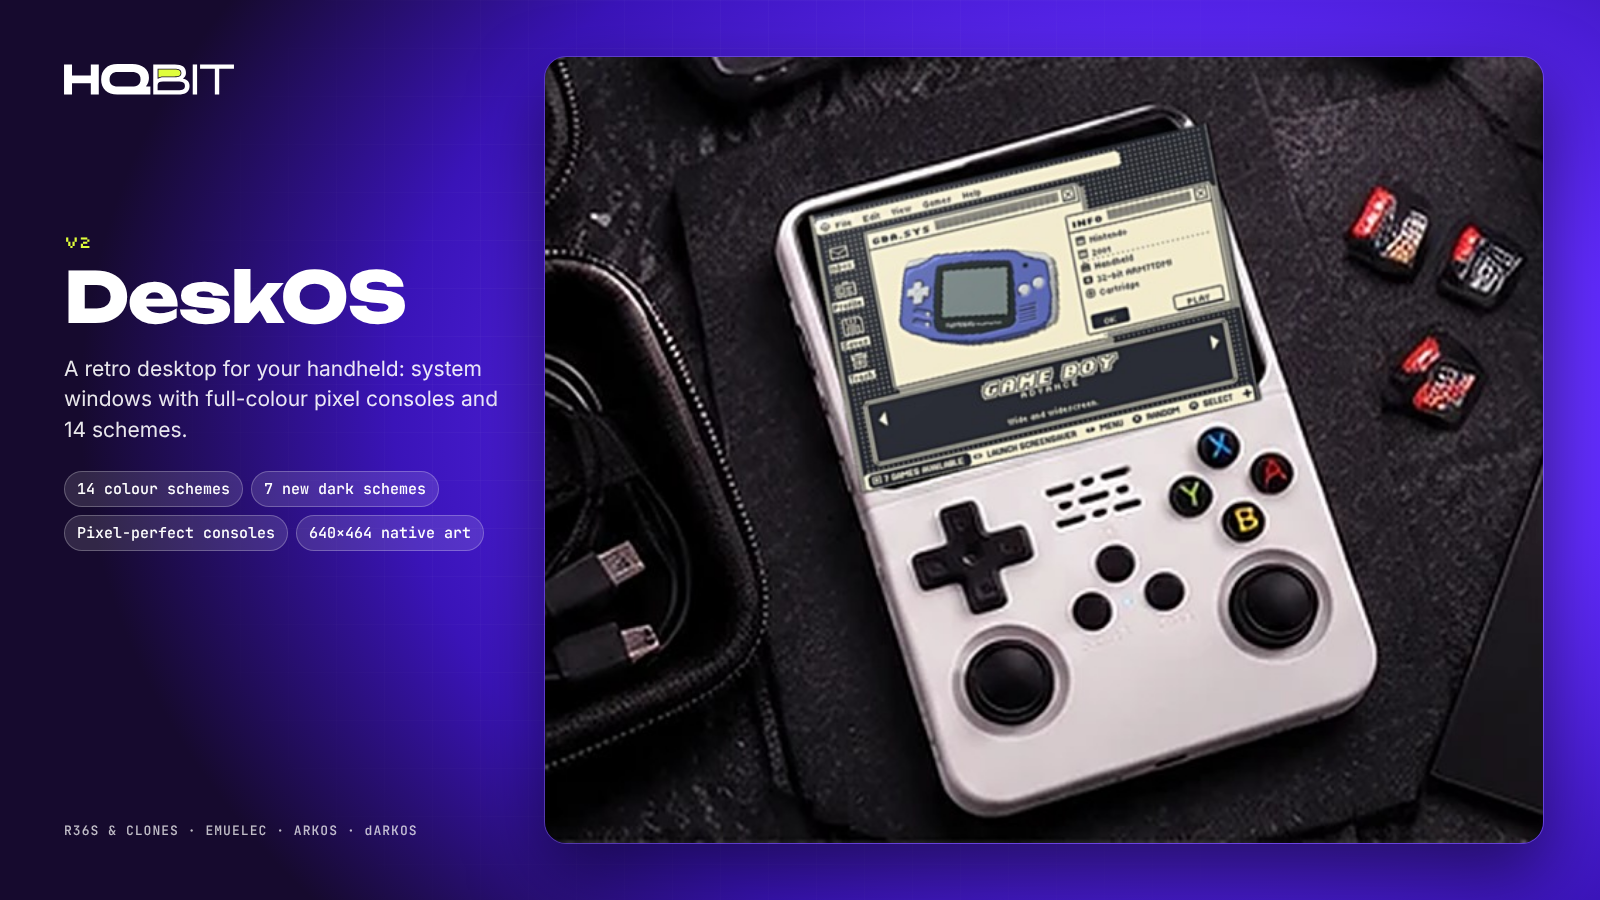
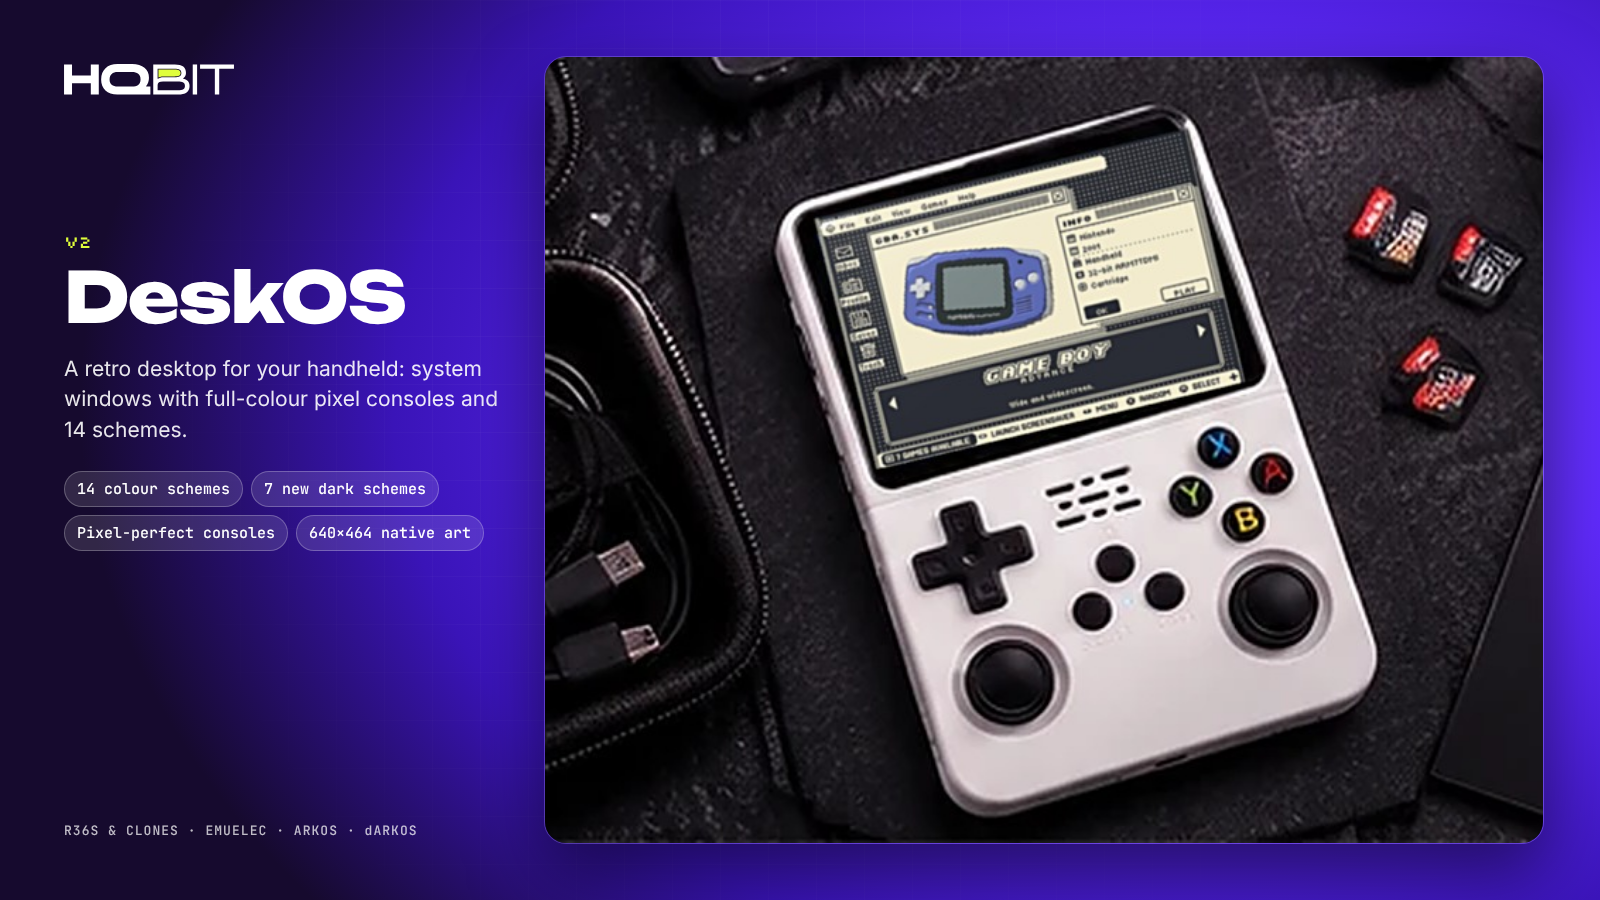
Fix screen placement on showcase photos; add boot-loop recovery steps
Screen corners re-measured from 8x zooms so each screenshot sits inside the
lit display area instead of over the bezel.

Claude-Session: https://claude.ai/code/session_012YBeFWiQAfsThBpmGfRTHW

Changed region(s): [[0.5, 0.1244, 0.8125, 0.56]]

diff --git a/hqbit-brand/website/hqbit.html b/hqbit-brand/website/hqbit.html
@@ -106,6 +106,15 @@ section { padding-block: clamp(56px, 8vw, 100px); }
 .compat ul { list-style: none; margin: 0; padding: 0; display: flex; flex-wrap: wrap; gap: 8px; }
 .compat li { font: 500 13px/1 var(--mono); color: #fff; background: rgba(255,255,255,.16); border: 1px solid rgba(255,255,255,.35); padding: 9px 12px; border-radius: 999px; }
 
+/* boot-loop fix */
+.fix { margin-top: 18px; display: grid; grid-template-columns: auto 1fr; gap: 14px 22px; align-items: start; background: var(--plum); border: 1px solid rgba(224, 254, 59, .45); border-radius: var(--r); padding: 22px 24px; }
+.fix-tag { font: 400 13px/1 var(--pixel); color: #1a0b3d; background: var(--lime); padding: 8px 10px; border-radius: 8px; white-space: nowrap; }
+.fix > div { display: flex; flex-direction: column; gap: 10px; min-width: 0; }
+.fix h3 { font-size: 20px; font-weight: 700; }
+.fix p, .fix li { color: var(--muted); font-size: 16px; }
+.fix ol { margin: 0; padding-left: 22px; display: grid; gap: 6px; }
+@media (max-width: 620px) { .fix { grid-template-columns: 1fr; } .fix-tag { justify-self: start; } }
+
 /* install */
 .steps { list-style: none; margin: 0; padding: 0; display: grid; grid-template-columns: repeat(3, minmax(0, 1fr)); gap: 16px; counter-reset: s; }
 .steps li { counter-increment: s; background: var(--night); border: 1px solid var(--line); border-radius: var(--r); padding: 24px; display: flex; flex-direction: column; gap: 10px; min-width: 0; }
@@ -213,6 +222,18 @@ dialog button { font: 700 13px/1 var(--display); background: var(--text); color:
             <tr><td>DeskOS</td><td><code>es-theme-deskos</code></td><td><code>themes/es-theme-deskos/snes/theme.xml</code></td></tr>
           </tbody>
         </table>
+      </div>
+      <div class="fix" id="boot-loop">
+        <span class="fix-tag">If it gets stuck</span>
+        <div>
+          <h3>Boot loop after applying a theme?</h3>
+          <p>If your R36S keeps restarting after you switch to one of the themes:</p>
+          <ol>
+            <li>Turn the device off and take out the SD card.</li>
+            <li>Put the SD card into your computer and delete the theme folder you just selected from the <code>themes</code> folder.</li>
+            <li>Put the SD card back into your R36S and turn it on. It will start with your default system theme.</li>
+          </ol>
+        </div>
       </div>
     </div>
   </section>

diff --git a/hqbit-brand/tools/composite_photos.py b/hqbit-brand/tools/composite_photos.py
@@ -18,14 +18,14 @@ UP = 3  # supersampling factor for the warp; output is saved at 2x the collage s
 
 PANELS = {
     # name: (panel box in the collage, [(screen quad, screenshot)])
-    "volta": ((0, 0, 752, 574), [([(335, 59), (581, 64), (586, 261), (339, 265)], "volta/system-horizontal-dark.png")]),
-    "vcr": ((767, 310, 1254, 623), [([(920, 340), (1076, 331), (1089, 462), (918, 470)], "vcr/system-snes.png")]),
-    "neonglow": ((817, 922, 1254, 1254), [([(972, 967), (1132, 966), (1136, 1082), (972, 1086)], "neonglow/system-vertical.png")]),
-    "deskos": ((627, 632, 1254, 910), [([(857, 688), (998, 655), (1017, 753), (876, 786)], "deskos/system-classic.png")]),
+    "volta": ((0, 0, 752, 574), [([(336, 69), (577, 71), (581, 257), (338, 258)], "volta/system-horizontal-dark.png")]),
+    "vcr": ((767, 310, 1254, 623), [([(916, 342), (1075, 330), (1079, 463), (913, 467)], "vcr/system-snes.png")]),
+    "neonglow": ((817, 922, 1254, 1254), [([(969, 967), (1128, 966), (1129, 1077), (969, 1079)], "neonglow/system-vertical.png")]),
+    "deskos": ((627, 632, 1254, 910), [([(859, 689), (991, 657), (1012, 747), (881, 778)], "deskos/system-classic.png")]),
     "collection": ((0, 922, 515, 1254), [
-        ([(80, 952), (221, 948), (223, 1031), (86, 1034)], "volta/system-wheel-citrine.png"),
-        ([(247, 966), (340, 966), (342, 1032), (247, 1035)], "neonglow/system-wheel.png"),
-        ([(385, 972), (465, 975), (467, 1040), (384, 1040)], "vcr/system-gba-navy.png"),
+        ([(77, 946), (208, 947), (217, 1030), (88, 1034)], "volta/system-wheel-citrine.png"),
+        ([(245, 964), (342, 963), (344, 1032), (248, 1035)], "neonglow/system-wheel.png"),
+        ([(384, 972), (457, 971), (466, 1036), (390, 1038)], "vcr/system-gba-navy.png"),
     ]),
 }
 
